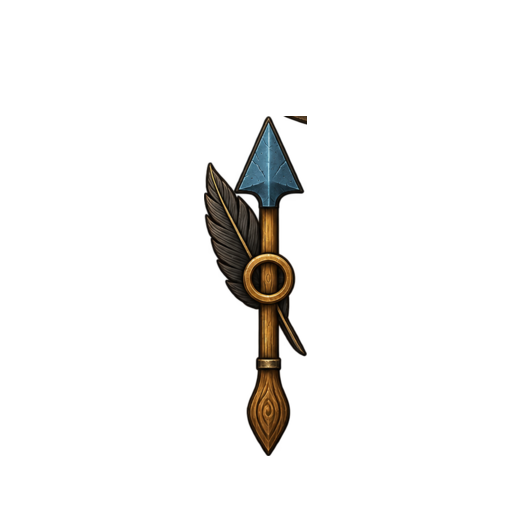
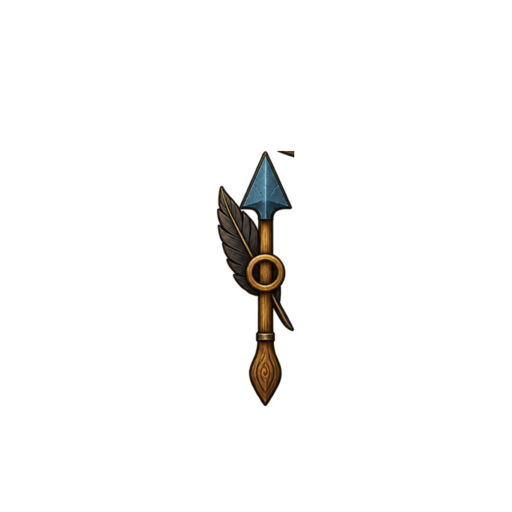
Give heading a prominent skin needle

Changed region(s): [[0.375, 0.2188, 0.625, 0.9062]]

diff --git a/RuneCompass/Assets/Skins/README.md b/RuneCompass/Assets/Skins/README.md
@@ -4,27 +4,27 @@ Rune Compass skins are presentation-only asset bundles. They must not alter navi
 
 ## Which layers move
 
-Rune Compass is **heading-up**: the compass card rotates so each cardinal sits at its
-true bearing relative to the player's view, and screen-up is always the player's facing.
+Rune Compass is **north-up**: the compass card is fixed with north at 12 o'clock. The
+heading and wind pointers move independently to their absolute world bearings.
 
 That fixes the motion of every layer, and a skin does not get to choose it:
 
 | Layer | Moves? |
 |---|---|
 | `base.png` — back plate behind the card | static |
-| `ring.png` — rotating card geometry and navigation marks | **rotates with the rose**, by `+heading` |
-| `wind_pointer.png` | mounted on the card; carries a pure world bearing |
-| `north_marker.png` (optional) | mounted on the card at bearing 0 |
-| `lubber_marker.png` — "you are looking this way" | static, at the top of the dial |
+| `ring.png` — fixed card geometry and navigation marks | static, north at 12 o'clock |
+| `wind_pointer.png` | rotates to the wind-toward world bearing; secondary signal |
+| `heading_pointer.png` | rotates to the player's world bearing; primary signal |
+| `lubber_marker.png` | optional static accent at the north index |
 
-A skin supplies artwork for these roles. It never decides which of them rotate, and it
-cannot introduce a layer with its own heading-dependent rotation — heading is applied in
-exactly one transform, and that is a behavioural invariant, not a presentation choice.
+A skin supplies artwork for these roles. It never decides which of them rotate. Heading
+and wind each receive one absolute-bearing transform; that is a behavioural invariant,
+not a presentation choice.
 
-Art authored for the ring should therefore read correctly at **any** rotation. Current
-runtime cardinal glyphs travel with the ring but counter-rotate to remain upright, so
-new rings omit baked `N`/`E`/`S`/`W` letters. Decorative runes may rotate with the card
-because they are ornament, not primary direction labels.
+The heading pointer is intentionally the dominant indicator: warm, solid, 379 pixels tall
+on the shared authoring canvas, with a broad tip and central boss. Wind uses a slimmer
+feather, spear, or arrow silhouette and renders beneath heading. Shape, mass, layer order,
+and material distinguish the signals before colour does.
 
 Prepared skins contain:
 
@@ -32,15 +32,15 @@ Prepared skins contain:
 <SkinName>/
 ├── base.png
 ├── ring.png
+├── heading_pointer.png
 ├── wind_pointer.png
 ├── lubber_marker.png
 └── skin.json
 ```
 
 Not every texture is mandatory. A skin definition declares only the layers it uses.
-The original three bundles predate the upright-glyph decision and retain baked cardinal
-art. The three follow-up bundles use letterless rings and are the cleaner integration
-reference. A separate `ring_marks.png` is not needed.
+The original three bundles retain baked cardinal art. The three follow-up bundles use
+letterless rings and therefore require runtime cardinal glyphs when they are bound.
 
 ## Prepared families
 
@@ -54,9 +54,9 @@ reference. A separate `ring_marks.png` is not needed.
 | `GildedSigil` | prepared, not yet bound | ornate amber runes and a subdued open-work mystic sigil |
 
 Every prepared PNG is a centered `512 x 512` RGBA canvas. That shared canvas is the
-alignment contract: the ring and wind pointer rotate around `(0.5, 0.5)`, while the base
-and lubber marker remain static. Wind tips and the ring's north-up index point to 12
-o'clock in their source textures. `skin.json` records the same convention beside each
-bundle.
+alignment contract: both pointers rotate around `(0.5, 0.5)`, while the base, ring, and
+optional lubber marker remain static. Both pointer tips and the ring's north index point
+to 12 o'clock in their source textures. `skin.json` records the same convention beside
+each bundle.
 
 The existing concept art should be curated into these roles during implementation. Do not duplicate every source image into every skin just because storage is cheap and restraint apparently is not.

diff --git a/RuneCompass/STATUS.md b/RuneCompass/STATUS.md
@@ -14,6 +14,9 @@ Six presentation asset families are prepared, but deliberately remain unbound:
 - `BlackIron`: complete dark timber, iron, and copper four-layer bundle plus `skin.json`;
 - `GildedSigil`: complete ornate runic four-layer bundle plus `skin.json`;
 - all six bundles use the same centered pivot and north-up source convention;
+- all six now include a dedicated `heading_pointer.png` whose warm solid silhouette is
+  intentionally more prominent than the wind pointer;
+- runtime binding for `headingPointerTexture` remains for the validated integration branch;
 - the three follow-up rings omit baked cardinal letters for compatibility with the
   runtime's upright, counter-rotated glyphs;
 - no runtime behavior or gameplay code changed during asset preparation.
